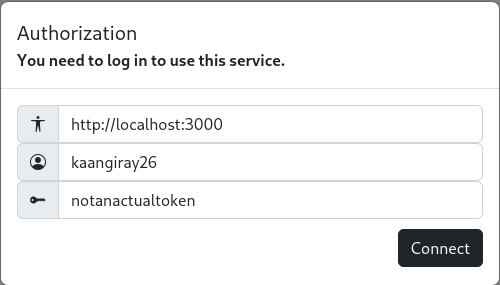
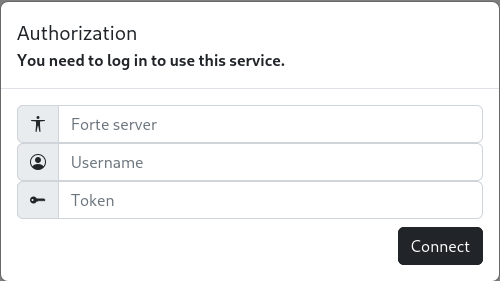
README

diff --git a/README.md b/README.md
@@ -35,9 +35,9 @@
     <li><a href="#built-with">Built with</a></li>
     <li><a href="#usage">Usage</a></li>
     <li><a href="#keyboard-shortcuts">Keyboard Shortcuts</a></li>
-    <li><a href="#license">Logging in</a></li>
+    <li><a href="#logging-in">Logging in</a></li>
     <li>
-        <a href="#contact">Creating your own server</a>
+        <a href="#creating-your-own-server">Creating your own server</a>
         <ul>
             <li><a href="#using-locally">Using locally</a></li>
             <li><a href="#using-publicly">Using publicly</a></li>
@@ -45,7 +45,7 @@
     </li>
     <li><a href="#license">License</a></li>
     <li><a href="#contact">Contact</a></li>
-    <li><a href="#acknowledgments">Acknowledgments</a></li>
+    <li><a href="#acknowledgements">Acknowledgements</a></li>
   </ol>
 </details>
 <br/>
@@ -74,16 +74,16 @@ forte is a self-hosted music platform. You can either **connect to a forte serve
 * [x] Group Sessions
 
 ## Built with
-* ![Vue.js](https://img.shields.io/badge/Vue.js-FFF?style=flat-square&logo=vuedotjs&logoColor=4FC08D)
-* ![Node.js](https://img.shields.io/badge/Node.js-FFF?style=flat-square&logo=nodedotjs&logoColor=339933)
-* ![Express.js](https://img.shields.io/badge/Express-FFF?style=flat-square&logo=express&logoColor=000000)
-* ![PostgreSQL](https://img.shields.io/badge/PostgreSQL-FFF?style=flat-square&logo=postgresql&logoColor=4169E1)
-* ![Bootstrap](https://img.shields.io/badge/Bootstrap-FFF?style=flat-square&logo=bootstrap&logoColor=7952B3)
-* ![PeerJS](https://img.shields.io/badge/PeerJS-FFF?style=flat-square)
-* ![howler.js](https://img.shields.io/badge/howler.js-FFF?style=flat-square)
-* ![hammer.js](https://img.shields.io/badge/hammer.js-FFF?style=flat-square)
-* ![Anime.js](https://img.shields.io/badge/Anime.js-FFF?style=flat-square)
-* ![Greenlock](https://img.shields.io/badge/Greenlock%20Express-FFF?style=flat-square)
+* ![Vue.js](https://img.shields.io/badge/Vue.js-d3d4d5?style=flat-square&logo=vuedotjs&logoColor=4FC08D)
+* ![Node.js](https://img.shields.io/badge/Node.js-d3d4d5?style=flat-square&logo=nodedotjs&logoColor=339933)
+* ![Express.js](https://img.shields.io/badge/Express-d3d4d5?style=flat-square&logo=express&logoColor=000000)
+* ![PostgreSQL](https://img.shields.io/badge/PostgreSQL-d3d4d5?style=flat-square&logo=postgresql&logoColor=4169E1)
+* ![Bootstrap](https://img.shields.io/badge/Bootstrap-d3d4d5?style=flat-square&logo=bootstrap&logoColor=7952B3)
+* ![PeerJS](https://img.shields.io/badge/PeerJS-d3d4d5?style=flat-square)
+* ![howler.js](https://img.shields.io/badge/howler.js-d3d4d5?style=flat-square)
+* ![hammer.js](https://img.shields.io/badge/hammer.js-d3d4d5?style=flat-square)
+* ![Anime.js](https://img.shields.io/badge/Anime.js-d3d4d5?style=flat-square)
+* ![Greenlock](https://img.shields.io/badge/Greenlock%20Express-d3d4d5?style=flat-square)
 
 ## Usage
 If you know a forte server and just want to connect to use the service, go to https://forte.buzl.uk. The webpage is hosted with GitHub pages and uses the latest forte version. Therefore, this is the **recommended way** to access forte services.
@@ -107,7 +107,7 @@ If you want to use forte on your mobile device, we suggest using the [PWA](https
 ## Logging in
 Once you go to the website, you will be prompted with this dialog:
 
-![image_5](images/image_5.png)
+![image_4](images/image_4.png)
 
 Here's an explanation for the fields:
 ```
@@ -120,7 +120,7 @@ If you are wondering about how to create accounts, this will be explained in the
 
 Here's an example for the authorization:
 
-![image_4](images/image_4.png)
+![image_5](images/image_5.png)
 
 If you log in successfully, you will see the homepage of the application, where some track recommendations can be found. Now you can use the application and listen to some music.
 
